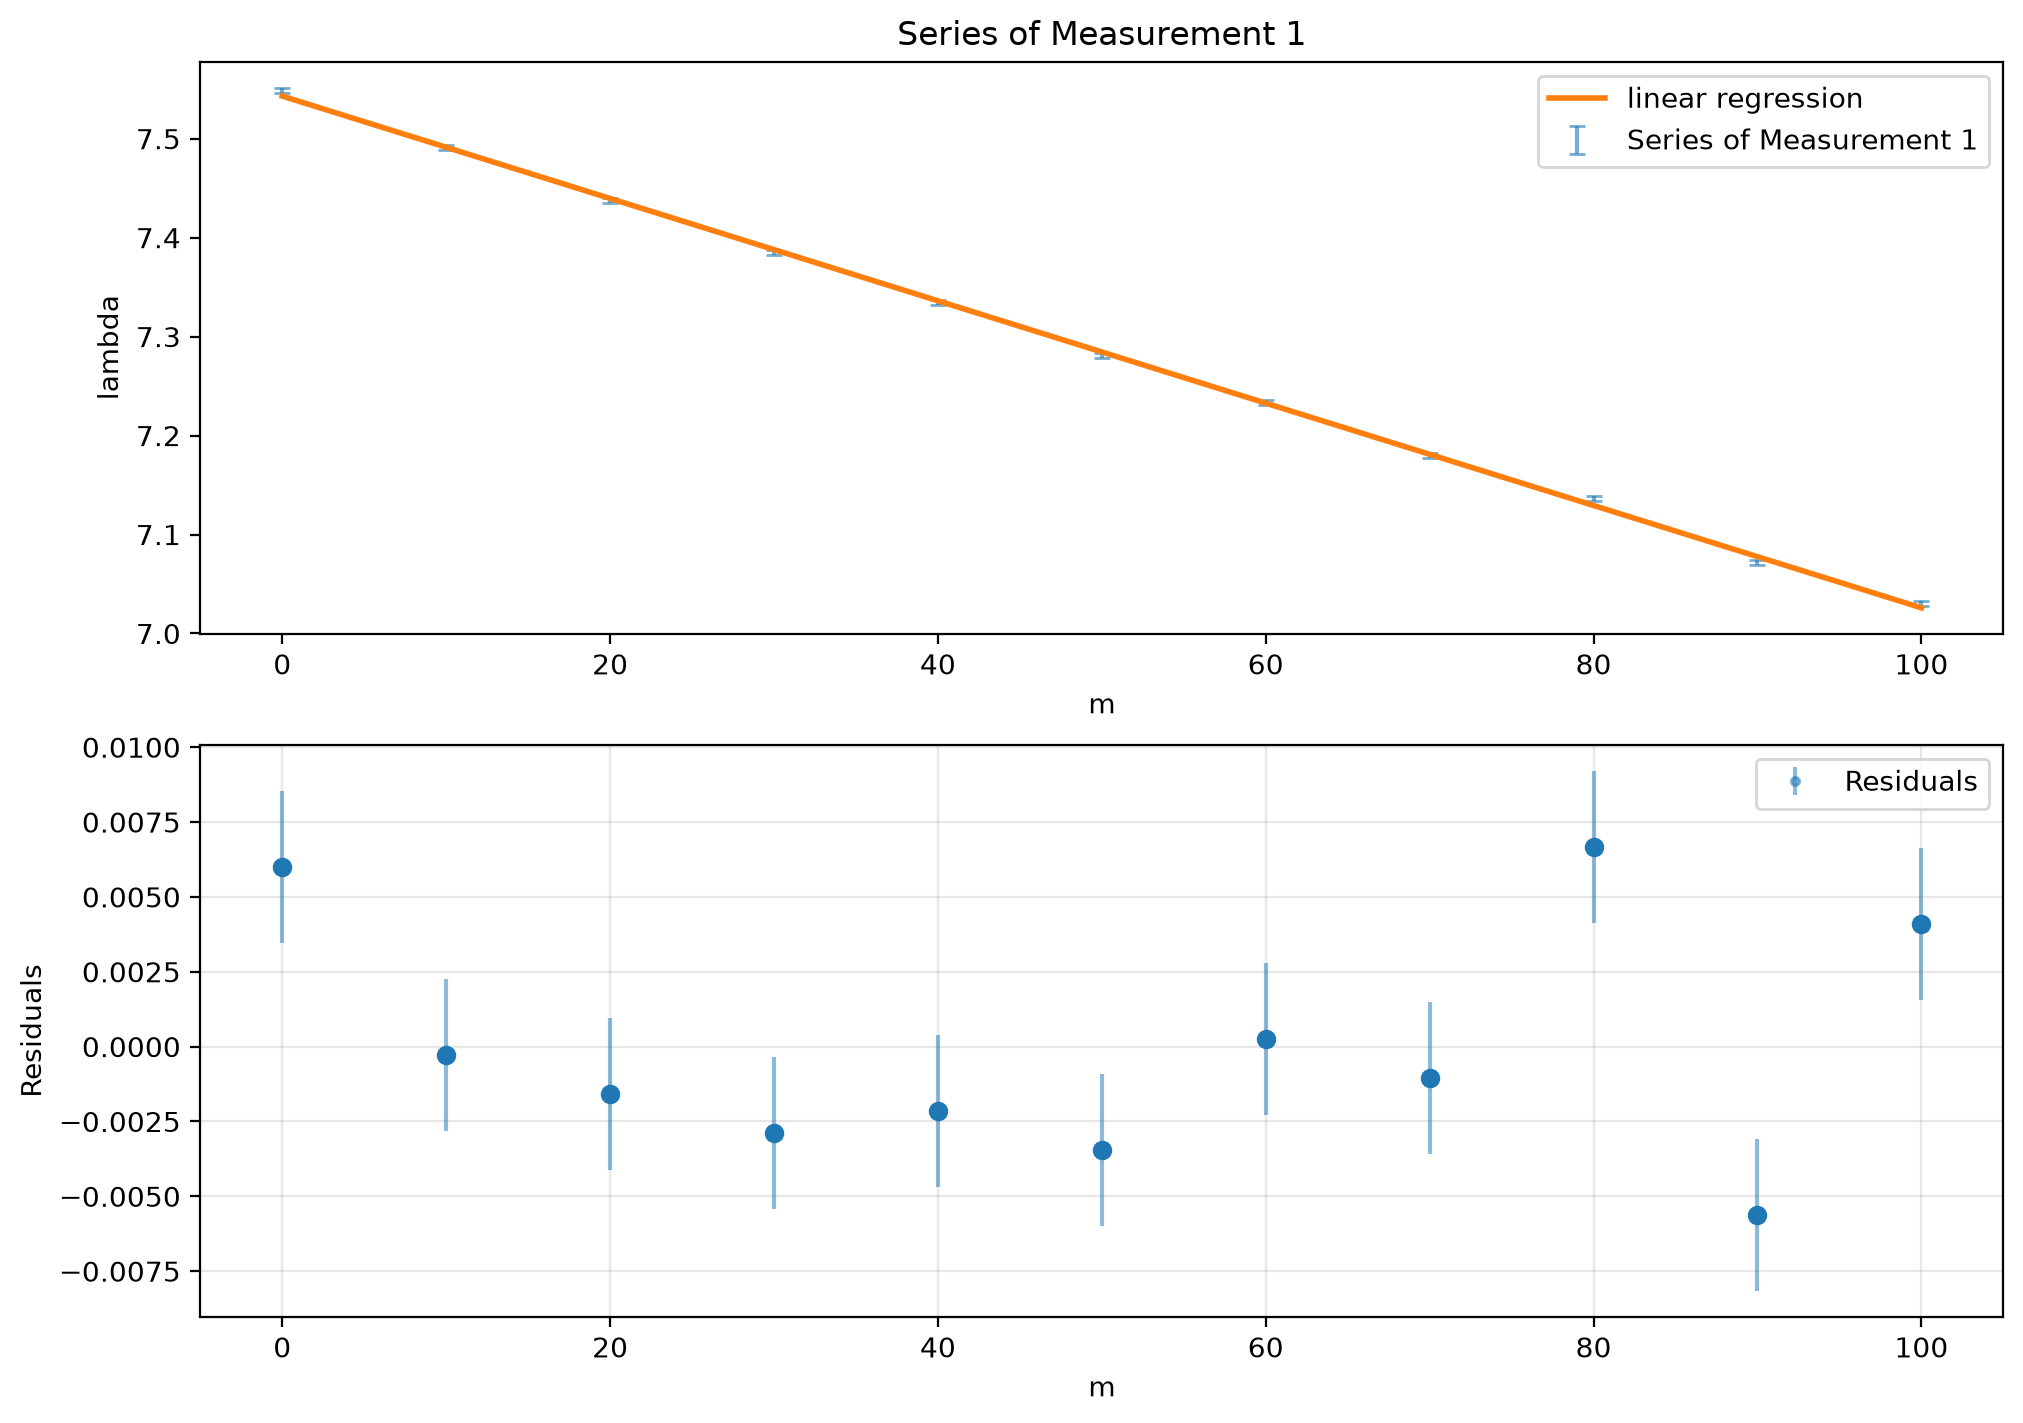
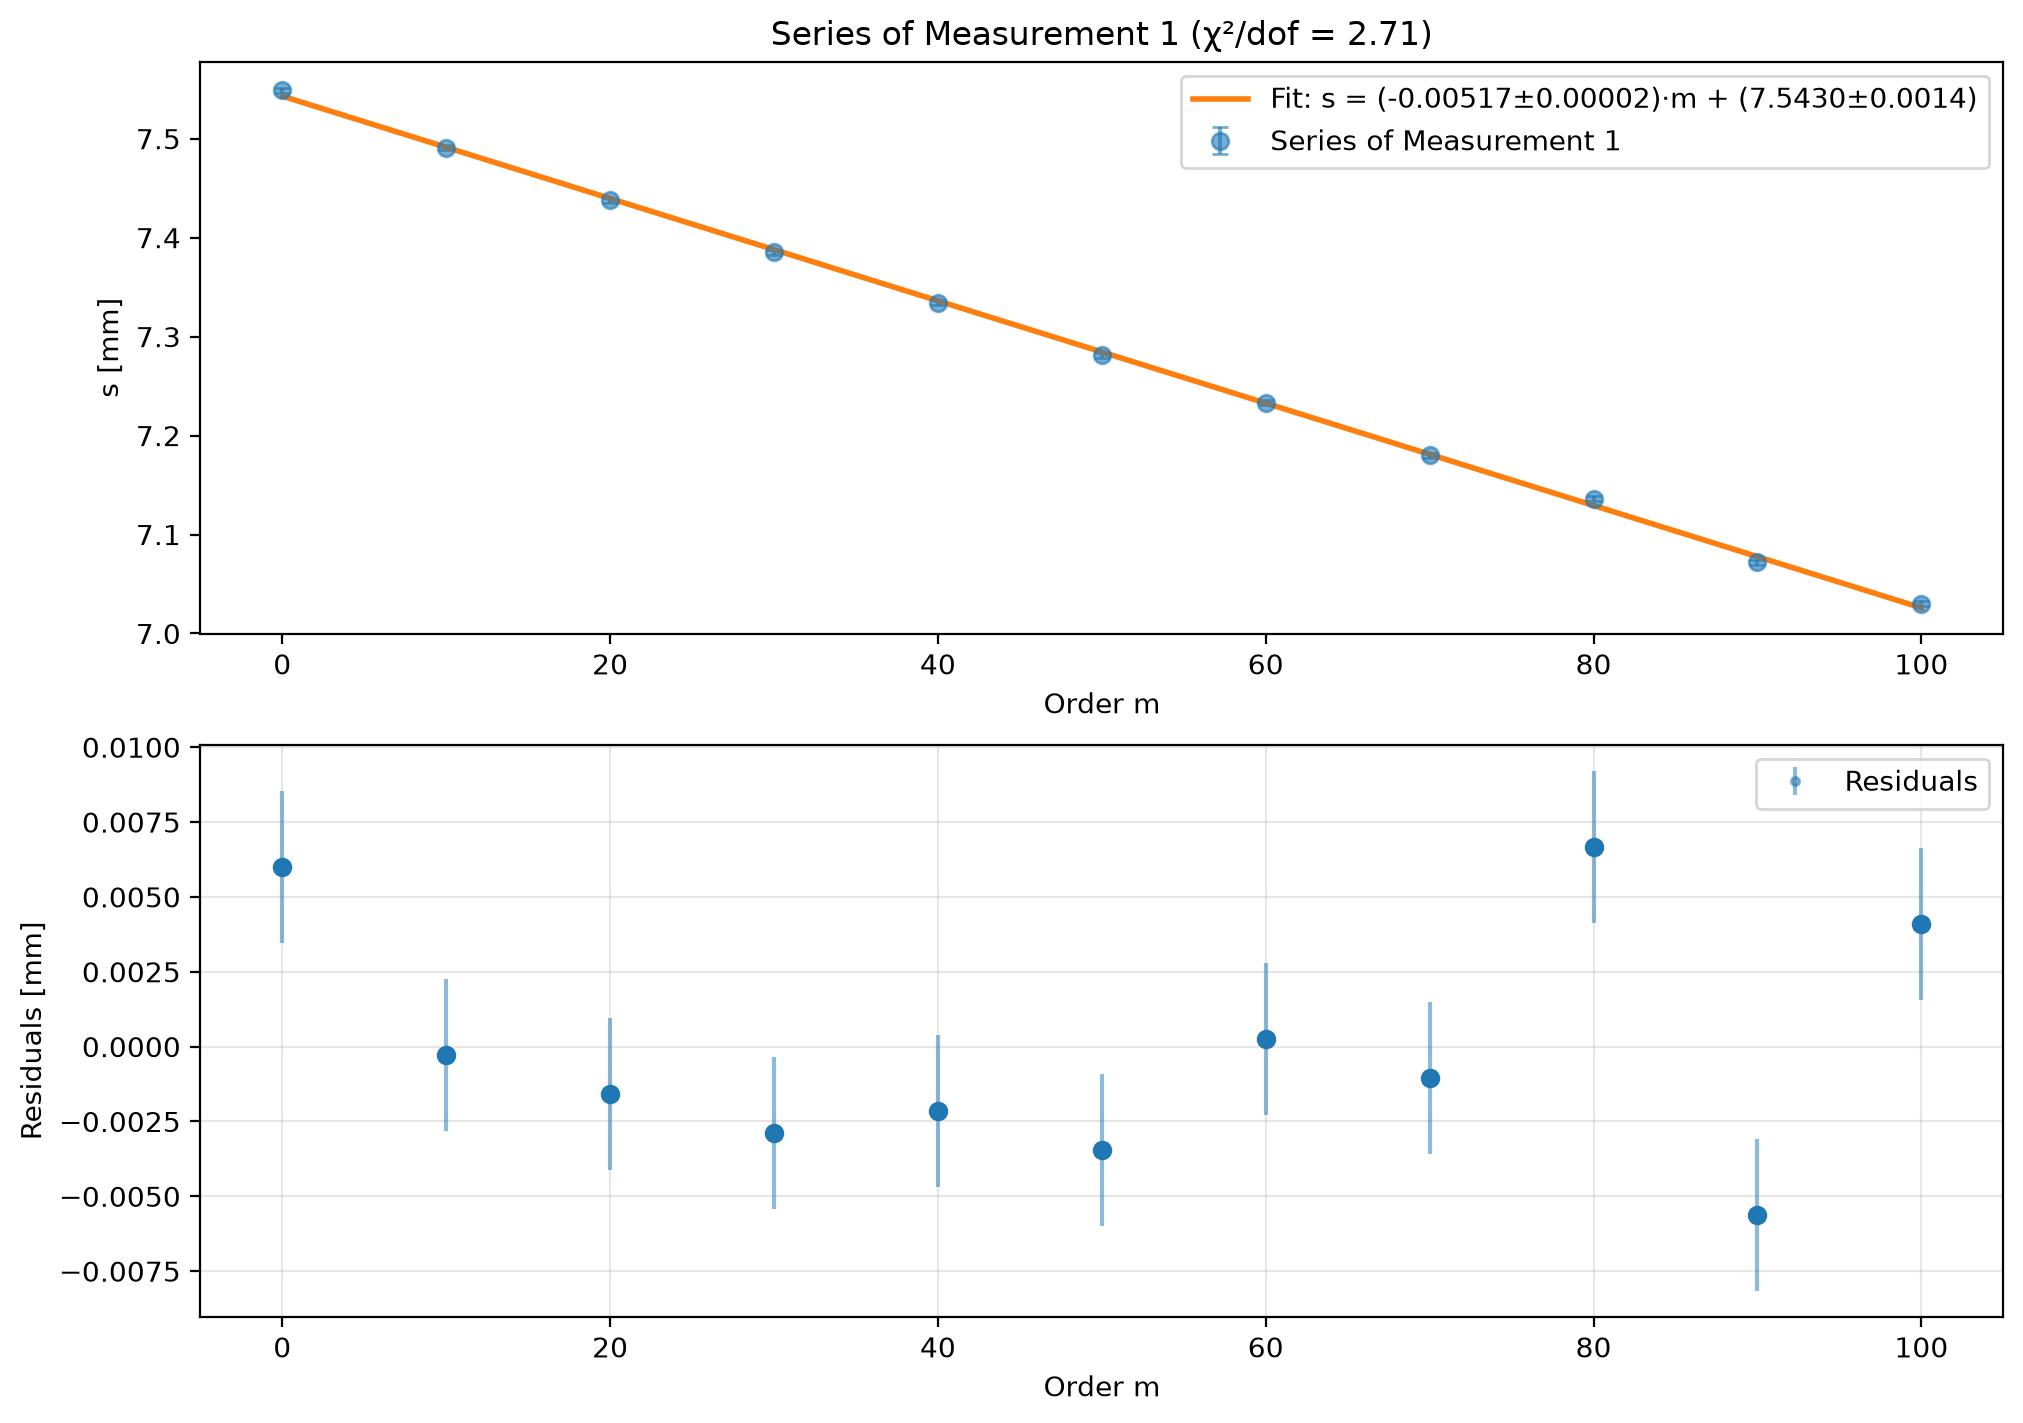
hab noch alle fehler hinzugefügt und auswertung vereinfacht

diff --git a/V3_Optik2/Valentin/Leon/auswertung_leon.py b/V3_Optik2/Valentin/Leon/auswertung_leon.py
@@ -32,14 +32,17 @@ DATA_lambda_3 = [7.550, 7.494, 7.440, 7.389, 7.338, 7.289, 7.233, 7.185, 7.130, 
 DATA_lambda_m = [    0,    10,    20,    30,    40,    50,    60,    70,    80,    90,   100]
 DATA_kum_l = [DATA_lambda_1, DATA_lambda_2, DATA_lambda_3]
 
+lamdba_rot = un.ufloat(632.8e-6, 0.1e-6)
+lamdba_grün_hersteller = 532.0
+
 def rauschmessung (DATA, bins=25, dateiname='Rauschmessung'):
     
     mean, std = analyse.mittelwert_stdabw(DATA)
     
     fig, ax = plt.subplots()
     ax.hist(DATA, label='Histogram of Noise Values', bins=bins)
-    ax.axvline(mean, color='tab:red',ls='--', label=f'Mean = {mean:.4f} V')
-    ax.axvline(mean+std, color='tab:gray',ls='--', label=f'U = {mean:.4f}+-{std:.4f} V')
+    ax.axvline(mean, color='tab:red',ls='--', label=f'Mean = {mean:.4f} mm')
+    ax.axvline(mean+std, color='tab:gray',ls='--', label=f'S = {mean:.4f}+-{std:.4f} mm')
     ax.axvline(mean-std, color='tab:gray',ls='--')
     ax.set_xlabel('s [mm]')
     ax.set_ylabel('Frequency')
@@ -51,7 +54,7 @@ def rauschmessung (DATA, bins=25, dateiname='Rauschmessung'):
     
     return mean, std
 
-def DATA_analyse(DATA, noise_sigma, y_label, dateiname_zusatz, i):
+def DATA_analyse(DATA, noise_sigma, y_label, titel_zusatz, dateiname_zusatz, i):
     
     m = np.array(DATA[0])
     p = np.array(DATA[1])
@@ -64,9 +67,7 @@ def DATA_analyse(DATA, noise_sigma, y_label, dateiname_zusatz, i):
     else:
          popt, pcov = curve_fit(f, m, p)
          
-    a = popt[0]
-    b = popt[1]
-    
+    a,b = popt
     ea = np.sqrt(pcov[0,0])
     eb = np.sqrt(pcov[1,1])
     
@@ -90,7 +91,7 @@ def DATA_analyse(DATA, noise_sigma, y_label, dateiname_zusatz, i):
     ax.errorbar(
         m,
         p,
-        fmt='',
+        fmt='o',
         capsize=3,
         yerr=noise_sigma,  ### idk
         ls='',
@@ -98,16 +99,17 @@ def DATA_analyse(DATA, noise_sigma, y_label, dateiname_zusatz, i):
         color='tab:blue',
         alpha=0.6
         )
+    m_line = np.linspace(m.min(), m.max(), 100)
     ax.plot(
-        m,
-        fit,
+        m_line,
+        f(m_line, *popt),
         lw=2,
         color='tab:orange',
-        label=f'linear regression'
+        label=f'Fit: s = ({a:.5f}$\\pm${ea:.5f})$\\cdot$m + ({b:.4f}$\\pm${eb:.4f})'
         )
-    ax.set_xlabel('m')
+    ax.set_xlabel('Order m')
     ax.set_ylabel(y_label)
-    ax.set_title(f'Series of Measurement {i+1}')
+    ax.set_title(f'Series of Measurement {i+1} (χ²/dof = {chiq_dof:.2f})')
     ax.legend(loc='upper right')
     inter = 1
     rs.plot(
@@ -127,8 +129,8 @@ def DATA_analyse(DATA, noise_sigma, y_label, dateiname_zusatz, i):
         label='Residuals',
         alpha=0.5
         )
-    rs.set_xlabel('m')
-    rs.set_ylabel('Residuals')
+    rs.set_xlabel('Order m')
+    rs.set_ylabel('Residuals [mm]')
     rs.grid(True, alpha=0.3)
     rs.legend(loc='upper right')
     fig.savefig(OUTPUT / f'Messung_Plus_Fit_{dateiname_zusatz}_{i+1}', dpi=200, bbox_inches='tight')
@@ -136,114 +138,56 @@ def DATA_analyse(DATA, noise_sigma, y_label, dateiname_zusatz, i):
     
     return a, b, ea, eb, chiq_dof, pcov
 
+def serie_auswerten(DATA_kum, m_werte, noise_sigma, y_label,titel_zusatz, dateiname_zusatz):
+    a_list, b_list, chiq_dof_list = [], [], []
+
+    for i, DATA in enumerate(DATA_kum):
+        a,b,ea,eb,chiq_dof, _ = DATA_analyse([m_werte, DATA], noise_sigma, y_label, titel_zusatz, dateiname_zusatz, i)
+        print(f'\n{titel_zusatz}-Fit {i+1}:')
+        print(f'    a = ({a:.6f} +/- {ea:.6f})')
+        print(f'    b = ({b:.6f} +/- {eb:.6f})')
+        print(f'    chi2/dof = {chiq_dof:.4f}')
+        a_list.append(a)
+        b_list.append(b)
+        chiq_dof_list.append(chiq_dof)
+
+    a_list = np.array(a_list)
+    b_list = np.array(b_list)
+    mean_a = np.mean(a_list)
+    stat_a = np.std(a_list, ddof=1)/np.sqrt(len(a_list))
+    mean_b = np.mean(b_list)
+    stat_b = np.std(b_list, ddof=1)/np.sqrt(len(b_list))
+    mean_chiq_dof = np.mean(chiq_dof_list)
+    print(f'\n--- {titel_zusatz}: Mean over {len(a_list)} messurments ---')
+    print(f'Mean a = ({mean_a:.6f} +/- {stat_a:.6f})')
+    print(f'Mean b = ({mean_b:.4f} +/- {stat_b:.4f})')
+    print(f'Mean chi2/dof = {mean_chiq_dof:.4f}')
+
+    return un.ufloat(mean_a, stat_a), un.ufloat(mean_b, stat_b), mean_chiq_dof
+
 mittel_red, sigma_red = rauschmessung(DATA_noise_red, dateiname='Rauschmessung_red')
 mittel_green, sigma_green = rauschmessung(DATA_noise_green, dateiname='Rauschmessung_green')
 
-a_p_list        = []
-b_p_list        = []
-ea_p_list       = []
-eb_p_list       = []
-chiq_dof_p_list = []
-for i, DATA in enumerate(DATA_kum_p):
-    a_p, b_p, ea_p, eb_p, chiq_dof_p, _ = DATA_analyse([DATA_preasure_m, DATA], None, 'Preasure p [hPa]', 'Druck', i) # sigma ca = 8 ?? idk
-    
-    print(f'\nFit {i+1}:')
-    print(f'a = ({a_p:.4f} +/- {ea_p:.4f})')
-    print(f'b = ({b_p:.4f} +/- {eb_p:.4f})')
-    print(f'Chi2 / dof = {chiq_dof_p:.5f}')
-    
-    a_p_list.append(a_p)
-    b_p_list.append(b_p)
-    ea_p_list.append(ea_p)
-    eb_p_list.append(eb_p)
-    chiq_dof_p_list.append(chiq_dof_p)
-    
-mean_a_p = np.mean(a_p_list)
-std_a_p  = np.std(a_p_list, ddof=1)
-stat_a_p = std_a_p / np.sqrt(len(a_p_list))
+print(f'Noise Messurment red:   ({mittel_red:.4f} +/- {sigma_red:.4f})mm')
+print(f'Noise Messurment green: ({mittel_green:.4f} +/- {sigma_green:.4f})mm')
 
-mean_b_p = np.mean(b_p_list)
-std_b_p  = np.std(b_p_list, ddof=1)
-stat_b_p = std_b_p / np.sqrt(len(b_p_list))
+a_p, b_p, chiq_dof_p = serie_auswerten(
+    DATA_kum_p, DATA_preasure_m, None, 'Druck p [hPa]', 'Druckabhängigkeit', 'Druck'
+)
 
-mean_chiq_dof = np.mean(chiq_dof_p_list)
+a_k, b_k, chiq_dof_k = serie_auswerten(
+    DATA_kum_k, DATA_kappa_m, sigma_red, 's [mm]', 'k-Kalibration (rot)', 'Kappa'
+)
 
-print(f'\nMittelwert a_p = ({mean_a_p:.5f} +/- {stat_a_p:.5f})')
-print(f'Mittelwert b_p = ({mean_b_p:.5f} +/- {stat_b_p:.5f})')
-print(f'Mean Chi2 / dof = {mean_chiq_dof:.5f}')
+k = lamdba_rot / (2*a_k)
+print(f'\n |k| = ({abs(k.n):.6f} +/- {k.s:.6f})')
 
-
-a_k_list        = []
-b_k_list        = []
-ea_k_list       = []
-eb_k_list       = []
-chiq_dof_k_list = []
-for i, DATA in enumerate(DATA_kum_k):
-    a_k, b_k, ea_k, eb_k, chiq_dof_k, _ = DATA_analyse([DATA_kappa_m, DATA], sigma_red, 'kappa', 'Kappa', i)
-    
-    print(f'\nFit {i+1}:')
-    print(f'a = ({a_k:.4f} +/- {ea_k:.4f})')
-    print(f'b = ({b_k:.4f} +/- {eb_k:.4f})')
-    print(f'Chi2 / dof = {chiq_dof_k:.5f}')
-    
-    a_k_list.append(a_k)
-    b_k_list.append(b_k)
-    ea_k_list.append(ea_k)
-    eb_k_list.append(eb_k)
-    chiq_dof_k_list.append(chiq_dof_k)
-    
-mean_a_k = np.mean(a_k_list)
-std_a_k  = np.std(a_k_list, ddof=1)
-stat_a_k = std_a_k / np.sqrt(len(a_k_list))
-
-mean_b_k = np.mean(b_k_list)
-std_b_k  = np.std(b_k_list, ddof=1)
-stat_b_k = std_b_k / np.sqrt(len(b_k_list))
-
-mean_chiq_dof_k = np.mean(chiq_dof_k_list)
-
-lamdba_rot = 632.8e-6
-k= lamdba_rot/(2*mean_a_k)
-
-print(f'\nMittelwert a_k = ({mean_a_k:.5f} +/- {stat_a_k:.5f})')
-print(f'Mittelwert b_k = ({mean_b_k:.5f} +/- {stat_b_k:.5f})')
-print(f'Mean Chi2 / dof = {mean_chiq_dof_k:.5f}')
-print(f'Rauschmessung Red: {mittel_red} +/- {sigma_red}')
-print(f'Übersetzungskoeffizient: k= {k:.5f}')
-
-
-a_l_list        = []
-b_l_list        = []
-ea_l_list       = []
-eb_l_list       = []
-chiq_dof_l_list = []
-for i, DATA in enumerate(DATA_kum_l):
-    a_l, b_l, ea_l, eb_l, chiq_dof_l, _ = DATA_analyse([DATA_lambda_m, DATA], sigma_green, 'lambda', 'Lambda', i)
-    
-    print(f'\nFit {i+1}:')
-    print(f'a = ({a_l:.4f} +/- {ea_l:.4f})')
-    print(f'b = ({b_l:.4f} +/- {eb_l:.4f})')
-    print(f'Chi2 / dof = {chiq_dof_l:.5f}')
-    
-    a_l_list.append(a_l)
-    b_l_list.append(b_l)
-    ea_l_list.append(ea_l)
-    eb_l_list.append(eb_l)
-    chiq_dof_l_list.append(chiq_dof_l)
-    
-mean_a_l = np.mean(a_l_list)
-std_a_l  = np.std(a_l_list, ddof=1)
-stat_a_l = std_a_l / np.sqrt(len(a_l_list))
-
-mean_b_l = np.mean(b_l_list)
-std_b_l  = np.std(b_l_list, ddof=1)
-stat_b_l = std_b_l / np.sqrt(len(b_l_list))
-
-mean_chiq_dof_l = np.mean(chiq_dof_l_list)
-lamdba_grün = (k*2*mean_a_l)
-
-print(f'\nMittelwert a_l = ({mean_a_l:.5f} +/- {stat_a_l:.5f})')
-print(f'Mittelwert b_l = ({mean_b_l:.5f} +/- {stat_b_l:.5f})')
-print(f'Mean Chi2 / dof = {mean_chiq_dof_l:.5f}')
-print(f'Rauschmessung Green: {mittel_green} +/- {sigma_green}')
-print(f'Wellenlänge $\lambda$ vom Grünen Laser = {lamdba_grün*1e6:.2f}')
+a_l, b_l, chiq_dof_l = serie_auswerten(
+    DATA_kum_l, DATA_lambda_m, sigma_green, 's [mm]', 'Wellenlänge (grün)', 'Lambda'
+)
+lambda_grün = k*2*a_l*1e6
+print(f'\n Wavelenght of green Laser = ({lambda_grün.n:.2f} +/- {lambda_grün.s:.2f}) mm')
+abweichung = lambda_grün.n - lamdba_grün_hersteller
+abweichung_sigma = abs(abweichung)/lambda_grün.s
+print(f'\n Reference Value of green Laser: {lamdba_grün_hersteller} nm')
+print(f'Difference: {abweichung:+.2f} nm = {abweichung_sigma:.2f} sigma')
